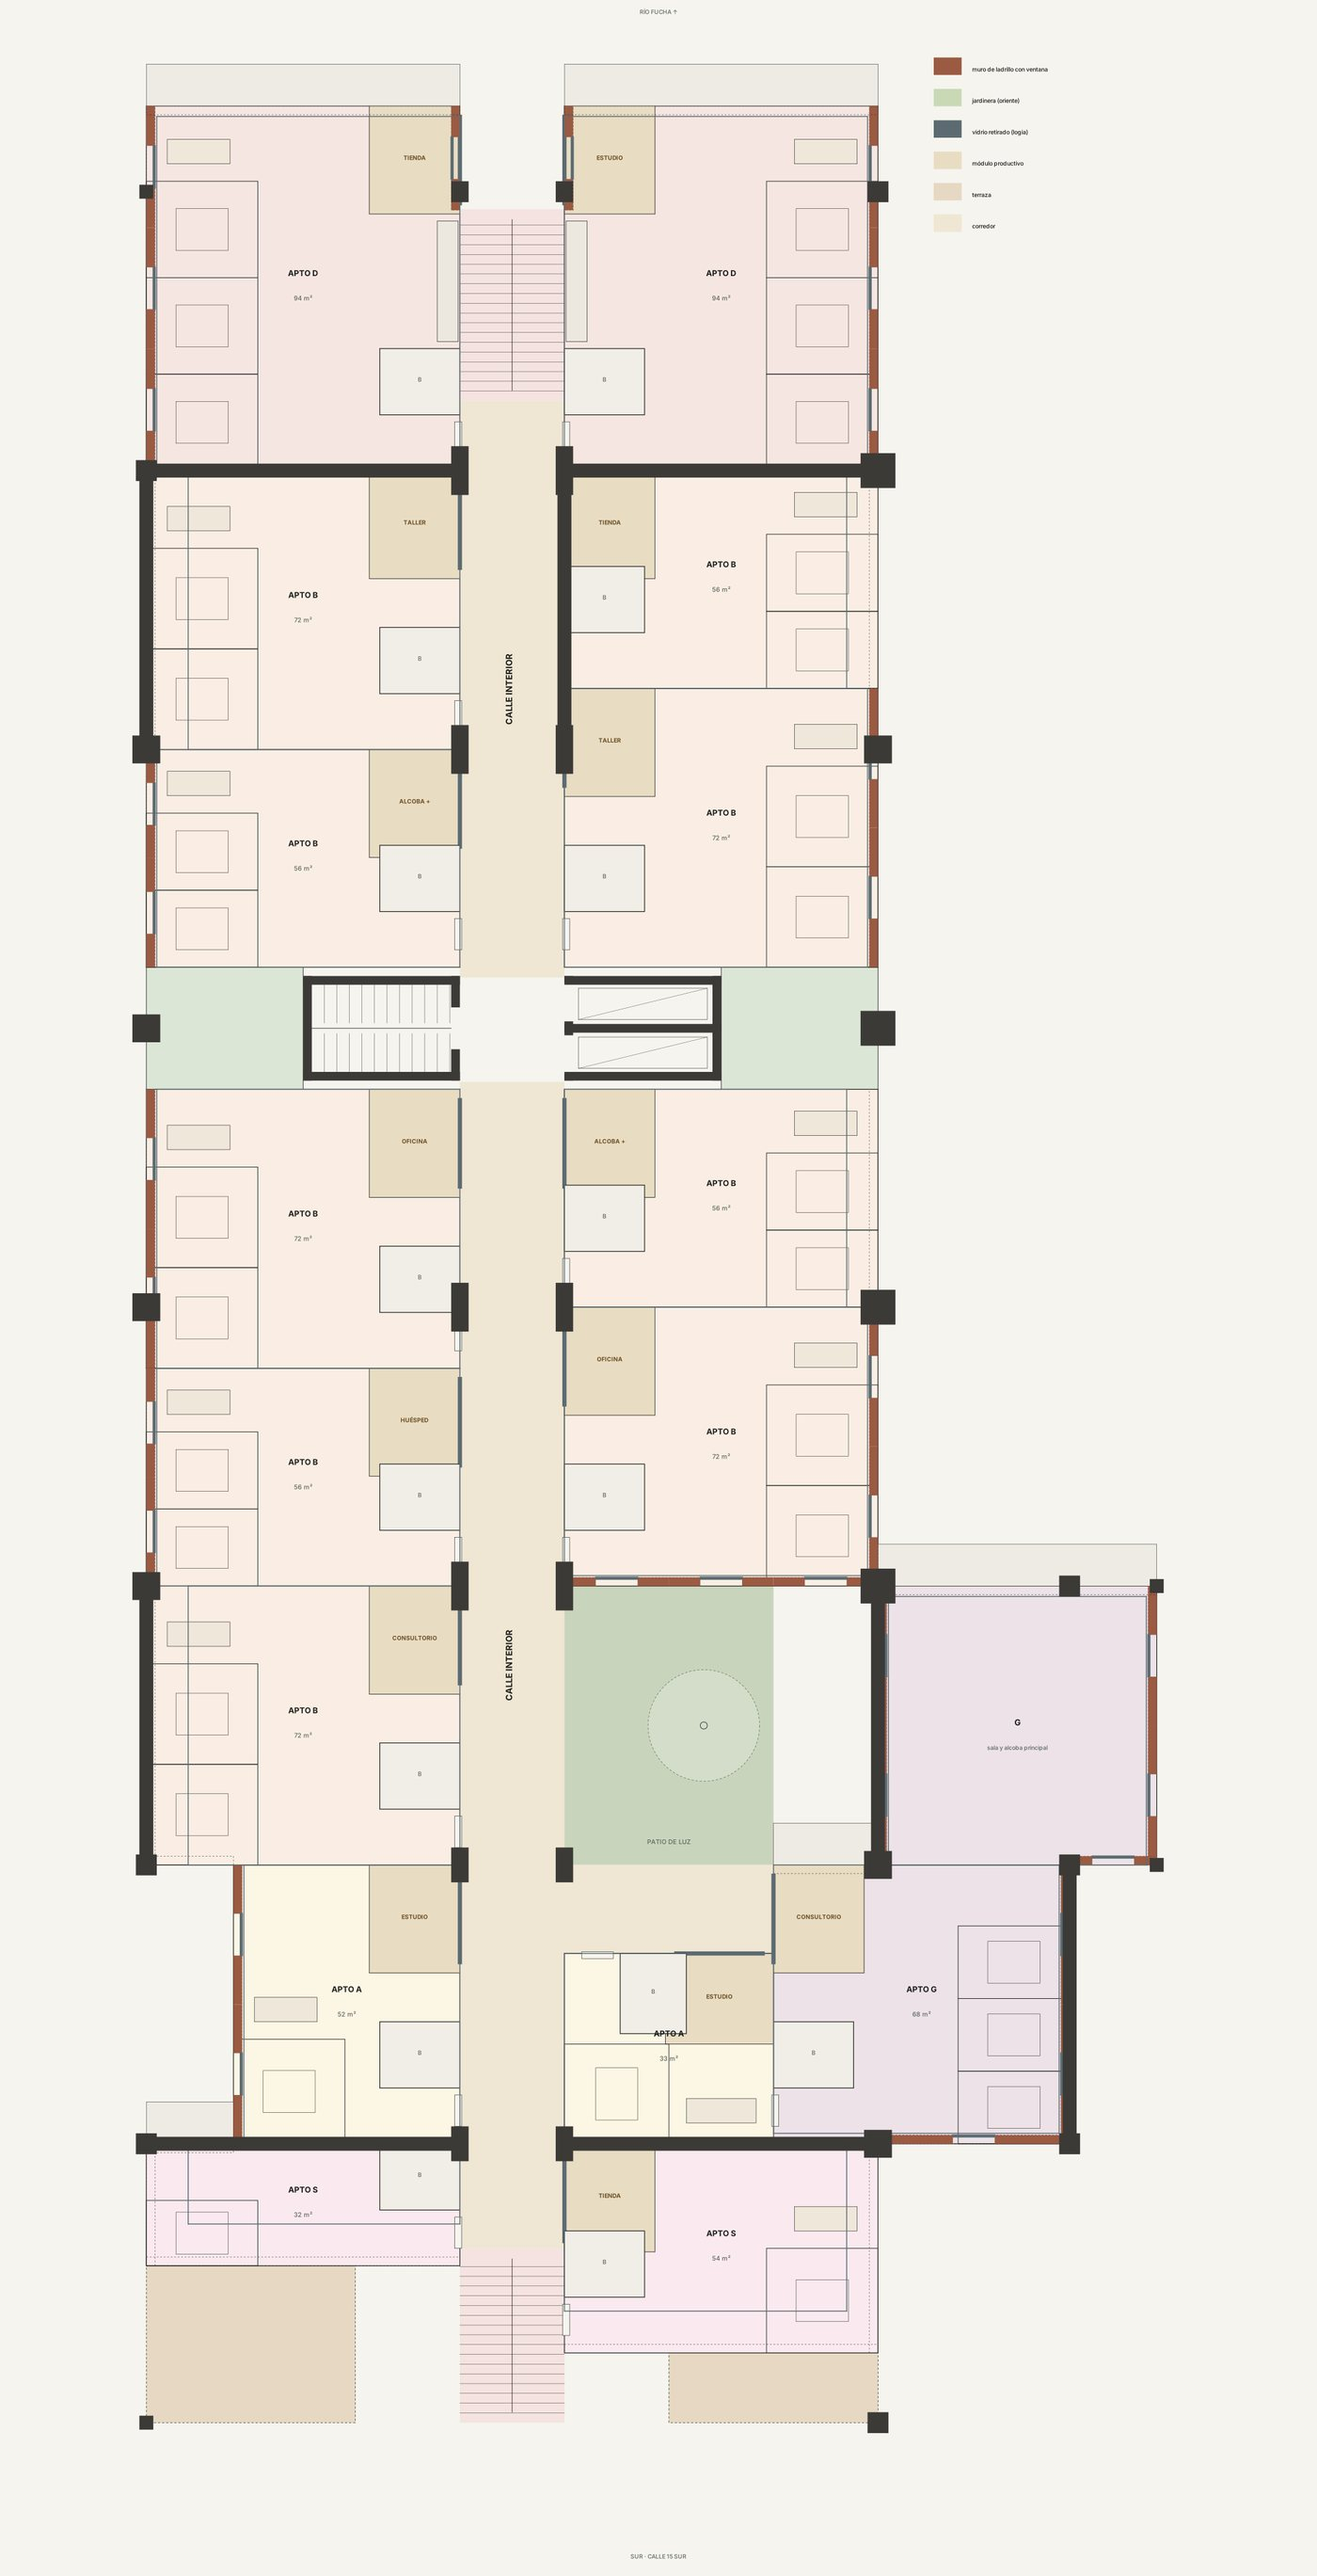
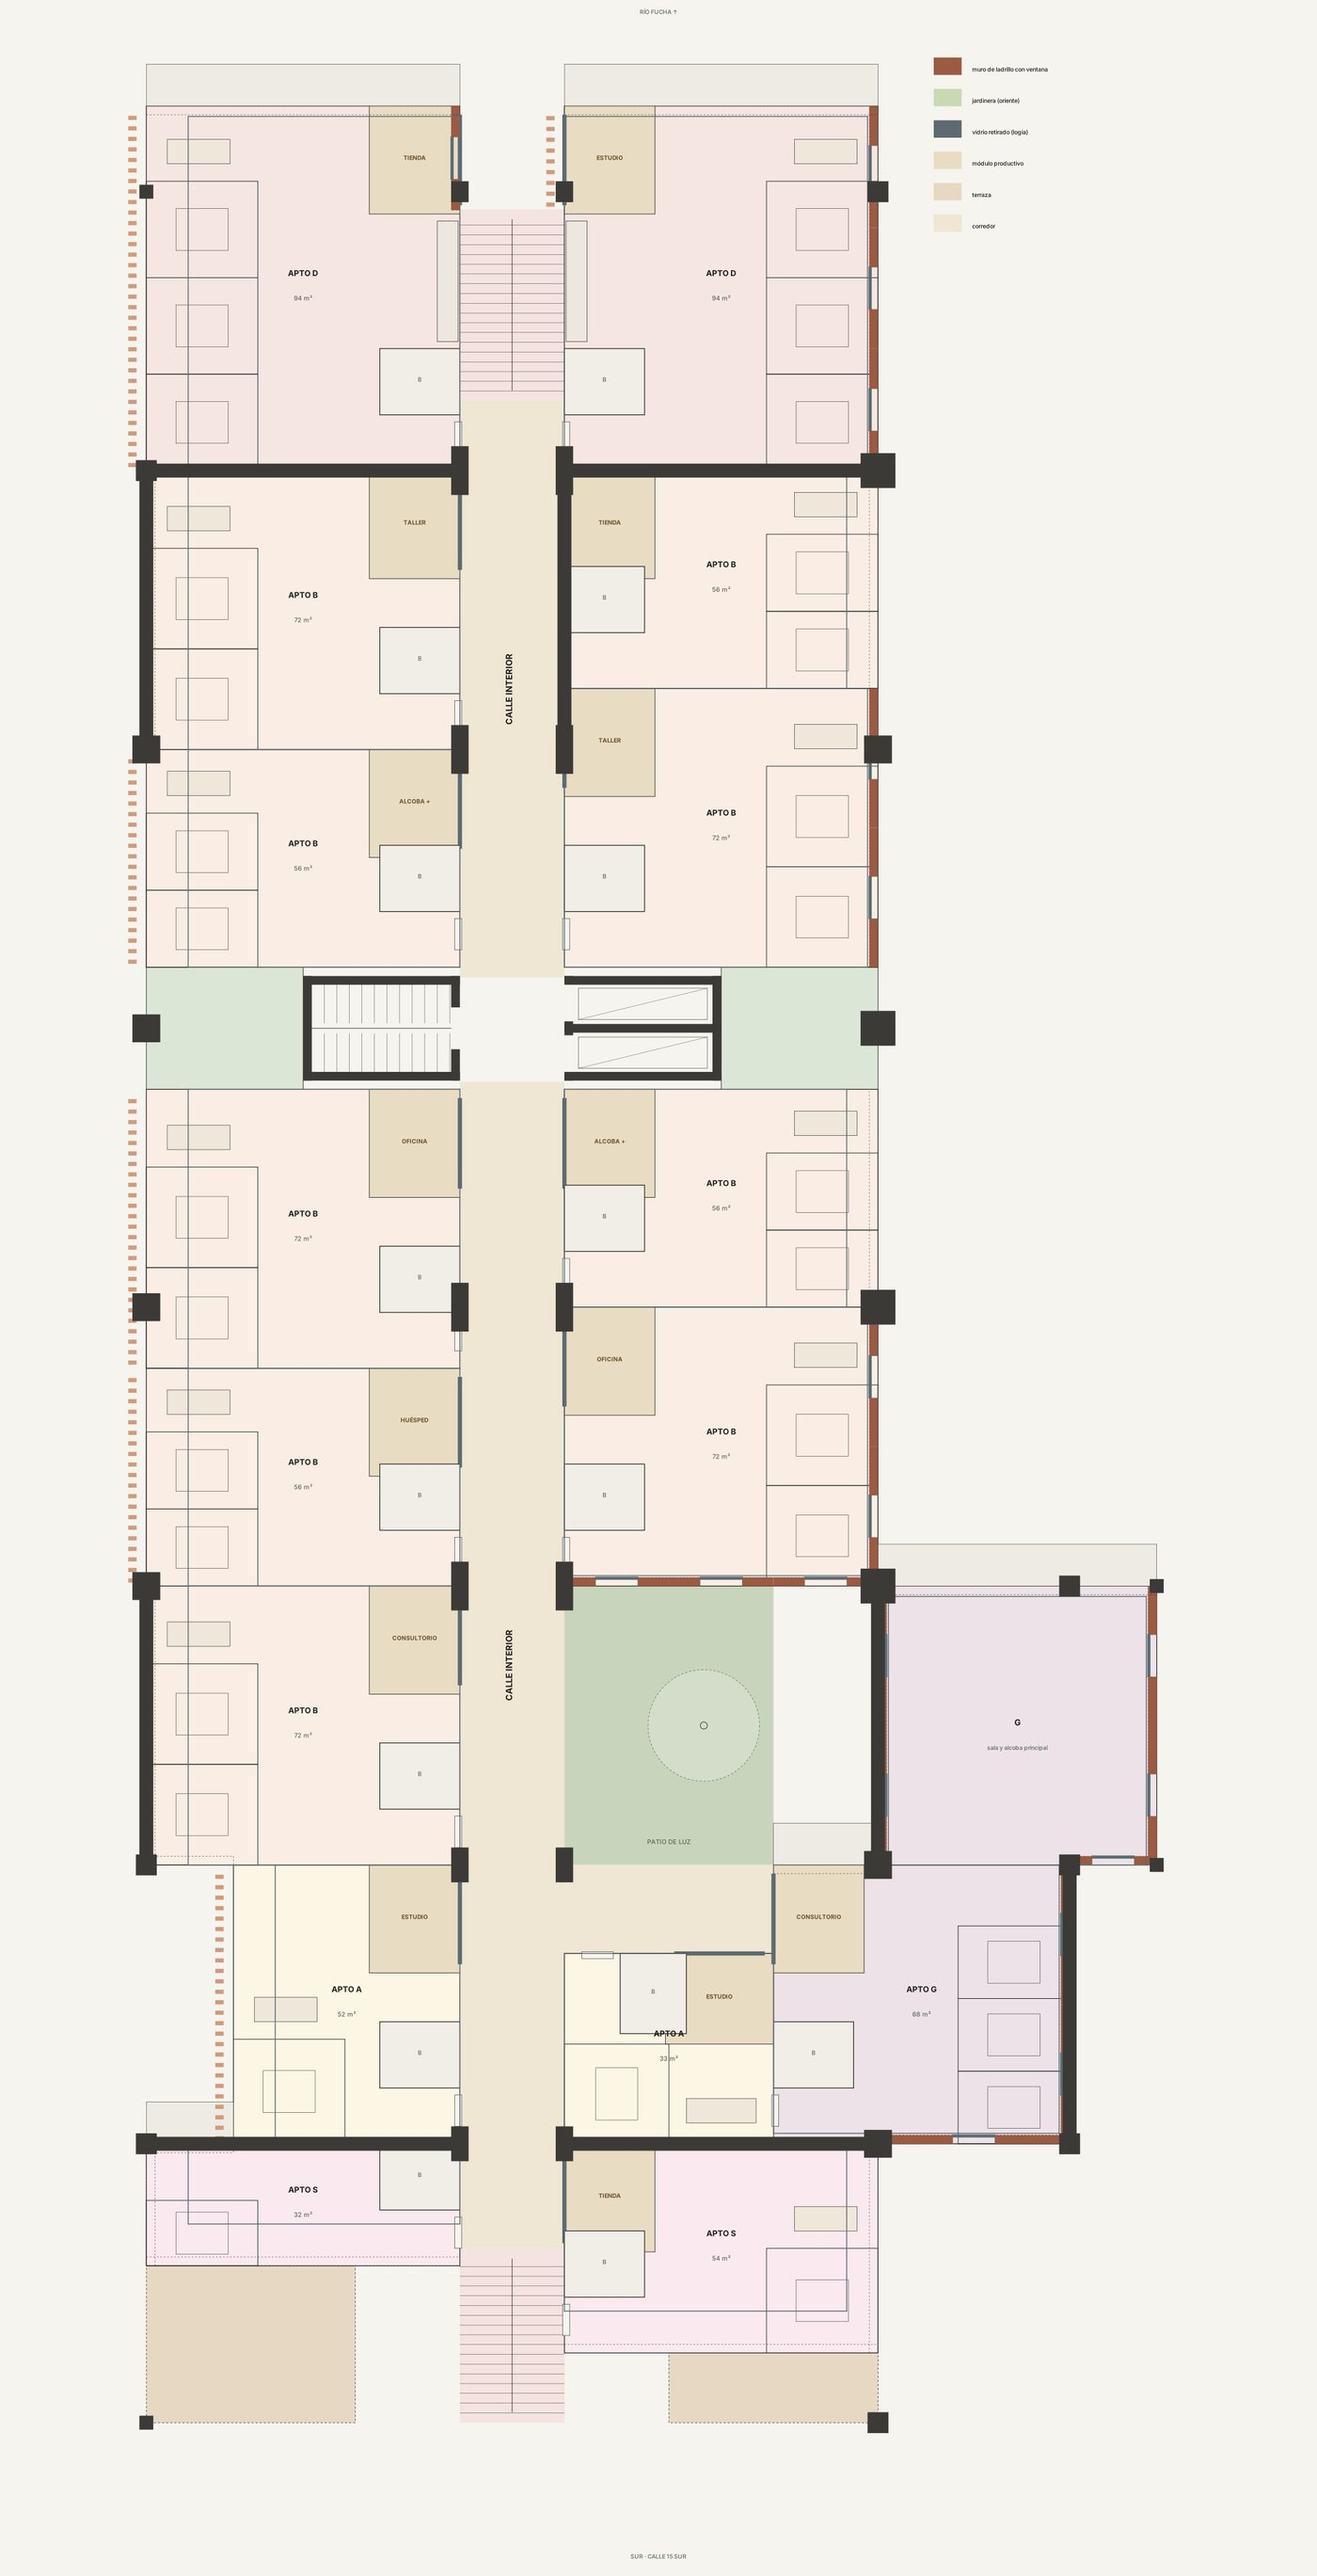
La Ola: occidente con velos de celosia de dos pisos y logias abiertas; alzado occidental
Claude-Session: https://claude.ai/code/session_01Rs9TY9ki2YSVtRsSTGuvtX

diff --git a/la-ola/index.html b/la-ola/index.html
@@ -276,11 +276,12 @@ footer{border-top:1px solid var(--rule);padding-top:16px;display:flex;flex-wrap:
 </section>
 
 <section class="sec">
-  <div class="lado"><span class="rot">La fachada</span><h2>Bandejas de ladrillo</h2><p class="nota">Cada módulo es una bandeja: banda de ladrillo arriba, vidrio retirado abajo y la cubierta libre como terraza o jardín. La mitad de los módulos son cajas de ladrillo con ventana de antepecho. Occidente lleva una logia profunda bajo la banda (el sol de la tarde lo frenan la banda y la terraza de arriba), oriente jardinera, el norte una terraza fina hacia el río. Lo común se viste distinto: el piso de todos lleva la fachada origami, módulos de seis triángulos que se pliegan sobre rieles (más cerrados al occidente, abiertos hacia el río), y el primer piso abre a la Carrera 8 con pilares de ladrillo y un alero corrido.</p></div>
+  <div class="lado"><span class="rot">La fachada</span><h2>Bandejas de ladrillo</h2><p class="nota">Cada módulo es una bandeja: banda de ladrillo arriba, vidrio retirado abajo y la cubierta libre como terraza o jardín. La mitad de los módulos son cajas de ladrillo con ventana de antepecho. Occidente alterna logias abiertas con velos de celosía de ladrillo que corren de placa a placa y se apilan de a dos pisos: cortan la horizontal de las bandejas y filtran el sol de la tarde. Oriente lleva jardinera, el norte una terraza fina hacia el río. Lo común se viste distinto: el piso de todos lleva la fachada origami, módulos de seis triángulos que se pliegan sobre rieles (más cerrados al occidente, abiertos hacia el río), y el primer piso abre a la Carrera 8 con pilares de ladrillo y un alero corrido.</p></div>
   <div class="cuerpo">
-    <figure class="plano"><img src="img/v4/fachada-so.jpg" alt="Axonometría desde el suroccidente: módulos de ladrillo con logias profundas y cubiertas verdes" loading="lazy"><figcaption>Desde el suroccidente</figcaption></figure>
+    <figure class="plano"><img src="img/v4/fachada-so.jpg" alt="Axonometría desde el suroccidente: módulos de ladrillo con logias, velos de celosía y cubiertas verdes" loading="lazy"><figcaption>Desde el suroccidente</figcaption></figure>
     <div class="galeria">
       <figure><img src="img/v4/fachada-se.jpg" alt="Axonometría desde el suroriente, hacia la calle" loading="lazy" style="aspect-ratio:auto;object-fit:contain"><figcaption>Suroriente · la calle</figcaption></figure>
+      <figure><img src="img/v4/alzado-occidente.jpg" alt="Alzado occidental: velos de celosía de ladrillo de dos pisos alternados con logias abiertas y cajas de ladrillo" loading="lazy" style="aspect-ratio:auto;object-fit:contain"><figcaption>Alzado occidental · celosías de dos pisos</figcaption></figure>
       <figure><img src="img/v4/fachada-no.jpg" alt="Axonometría desde el noroccidente, hacia el río Fucha" loading="lazy" style="aspect-ratio:auto;object-fit:contain"><figcaption>Noroccidente · el río</figcaption></figure>
     </div>
   </div>
